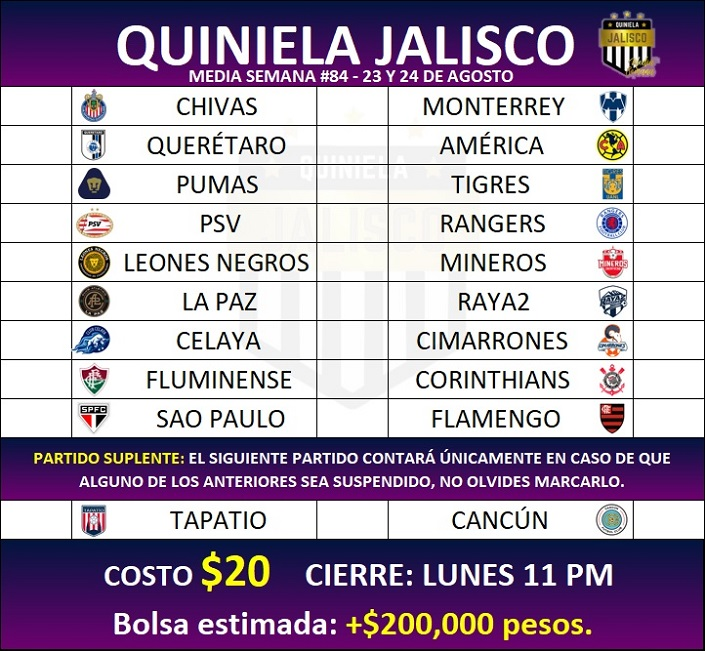
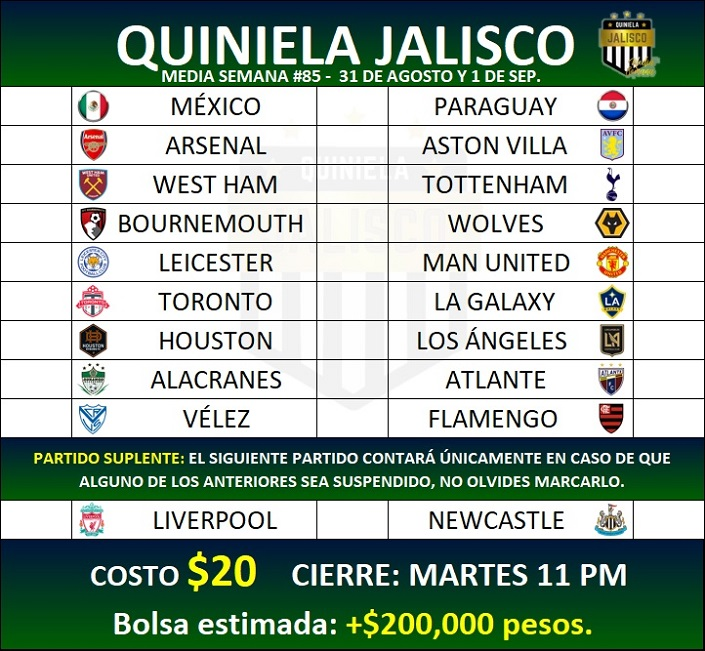
Media Semana #85

diff --git a/MediaSemana/stylesmSusp.css b/MediaSemana/stylesmSusp.css
@@ -93,8 +93,8 @@ body{
     margin-top: 9%;
     border: solid 1px black;
     border-radius: 0 0 14px 14px;
-    background: -webkit-linear-gradient(1turn, rgb(4,27,54)  ,rgb(66,7,91) 80%);
-    background: linear-gradient(1turn, rgb(4,27,54)  ,rgb(66,7,91) 80%);
+    background: -webkit-linear-gradient(1turn, rgb(4,27,54)  ,rgb(0,73,17) 80%);
+    background: linear-gradient(1turn, rgb(4,27,54)  ,rgb(0,73,17) 80%);
 }
 
 .text-lg{

diff --git a/11/styles11.css b/11/styles11.css
@@ -10,7 +10,7 @@ body{
     margin: auto;
     background-color: rgb(6,12,37);
     background-image: url("../bg/fondo8.jpg");
-    background-repeat: repeat-y;
+    background-repeat: repeat-y ;
     background-position: top;
 }
 
